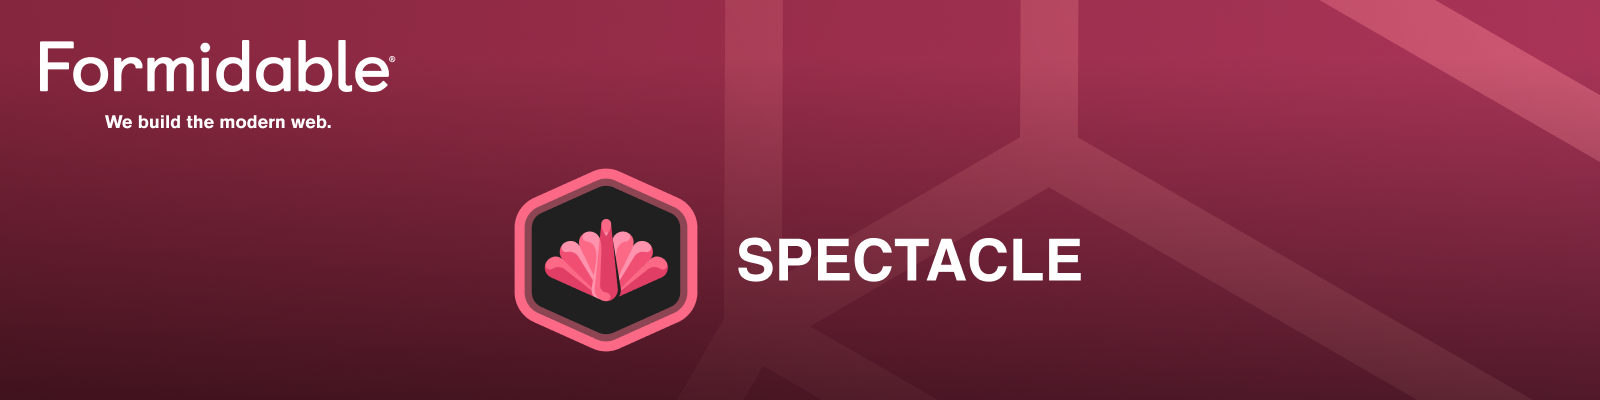
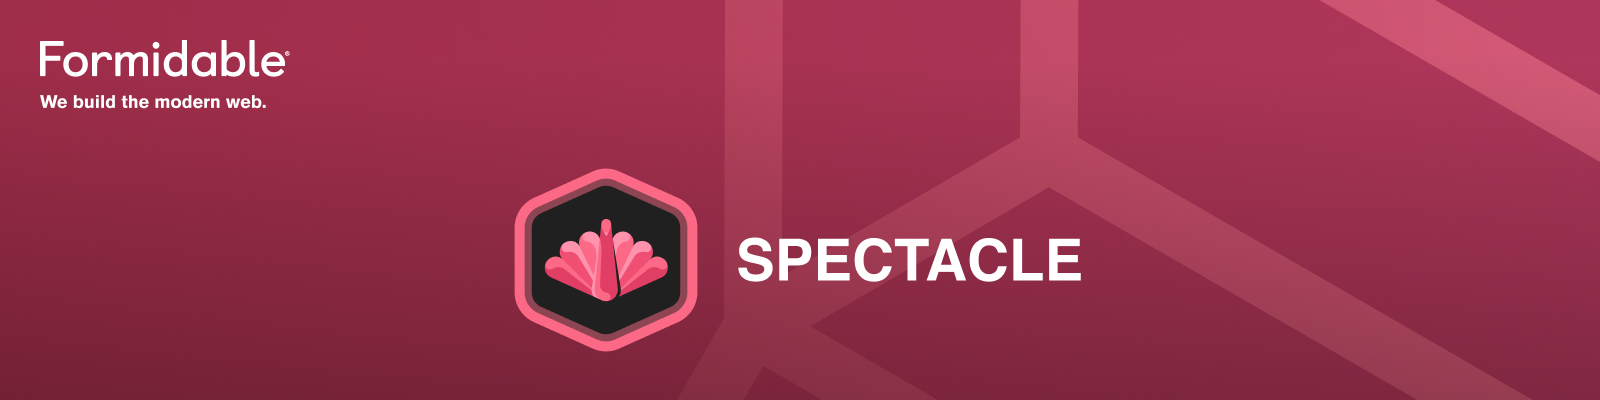
README adjust image

diff --git a/README.md b/README.md
@@ -1,6 +1,6 @@
 <p align="center">
   <a href="https://formidable.com/open-source/" target="_blank">
-    <img alt="Spectacle — Formidable, We build the modern web" src="./Spectacle-Hero.png" />
+    <img alt="Spectacle — Formidable, We build the modern web" src="https://raw.githubusercontent.com/FormidableLabs/spectacle/main/Spectacle-Hero.png" />
   </a>
 </p>
 <p align="center">
